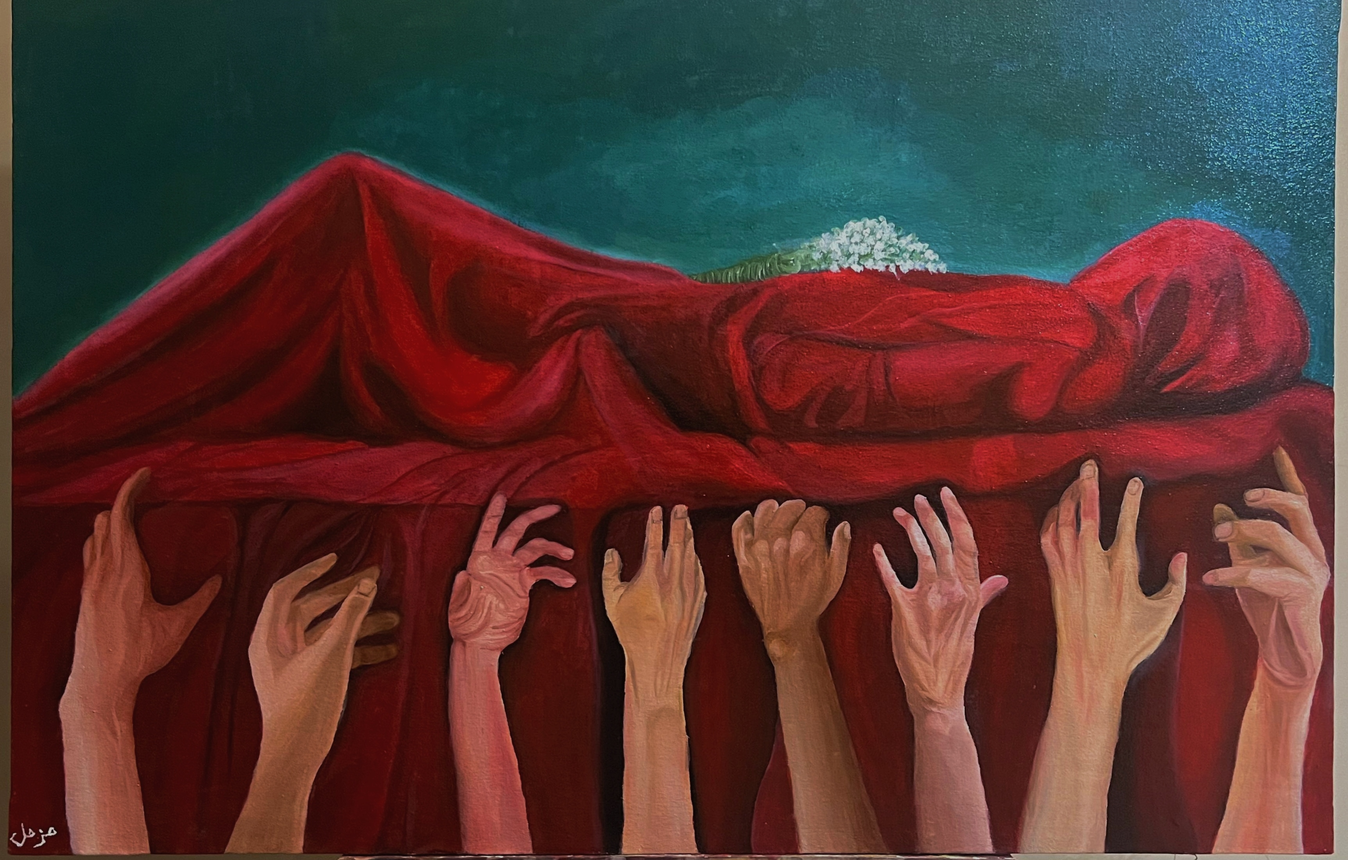
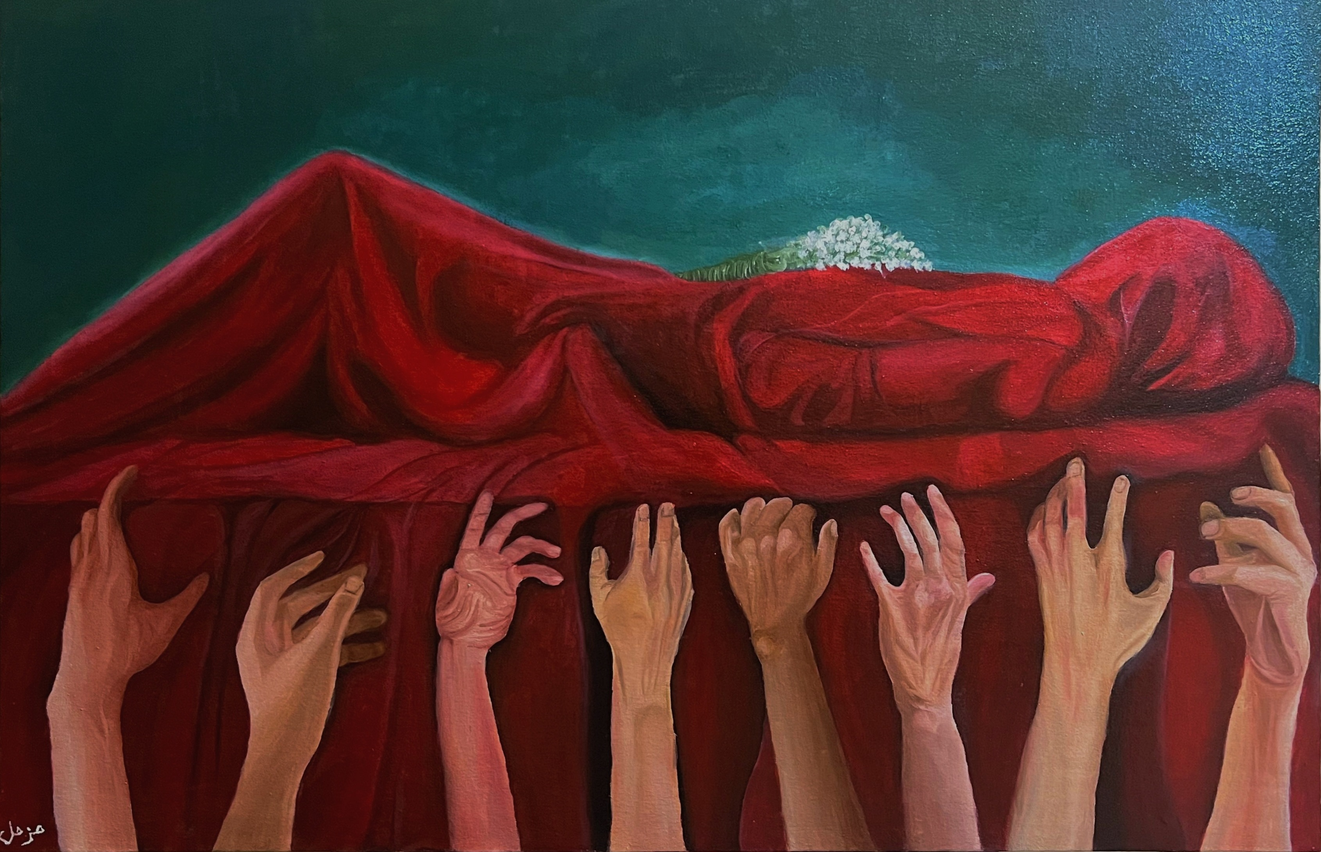
Recrop original paintings, move pair past the arch, darker room
- Recropped and straightened the four original photos so only the
  canvas shows (no wall, background or easel)
- Uncertainty and Everything Else Was Easier To Perform now hang just
  past the arch; the square painting is sized to match the width of
  Uncertainty opposite it
- The plant pair from that bay moved to just before the arch
- Dimmer room with stronger picture-light pools so the paintings stand
  out (ROOM_BRIGHTNESS / PICTURE_LIGHT in mesh.js)

Claude-Session: https://claude.ai/code/session_01Cmf28gMboDVKVY5y8boWYe

diff --git a/src/mesh.js b/src/mesh.js
@@ -13,6 +13,14 @@
 // how many picture lights the shader handles (one per painting)
 const MAX_LIGHTS = 8;
 
+// Overall brightness of the room. Lower = moodier. The paintings are
+// not affected, so a darker room makes them stand out more.
+// 1.0 = the old bright room, 0.6 = dim gallery mood.
+const ROOM_BRIGHTNESS = 0.6;
+
+// How strongly the picture lights wash the wall around each painting.
+const PICTURE_LIGHT = 0.95;
+
 module.exports = (regl, data, useReflexion) => {
 
   // one vec4 pair per light, read live from data.lights so each light
@@ -300,12 +308,15 @@ module.exports = (regl, data, useReflexion) => {
       light = mix(light, 0.42 + sculpt * 0.42 + max(dot(N, V), 0.0) * 0.12, isStatue);
       light += max(dot(N, V), 0.0) * 0.10 * isLeaf;
 
+      // dim the room as a whole; the picture lights stay strong
+      light *= ${ROOM_BRIGHTNESS.toFixed(3)};
+
       vec3 pictureTint = vec3(1.0, 0.93, 0.80);
-      vec3 finalColour = material * (vec3(light) + pictureTint * pic * (0.50 - 0.25 * isFloor));
+      vec3 finalColour = material * (vec3(light) + pictureTint * pic * ${PICTURE_LIGHT.toFixed(3)} * (1.0 - 0.5 * isFloor));
 
       // leaves catch a soft sheen
       vec3 Hs = normalize(lightDirection + V);
-      finalColour += vec3(0.55, 0.65, 0.45) * pow(max(dot(N, Hs), 0.0), 36.0) * 0.20 * isLeaf;
+      finalColour += vec3(0.55, 0.65, 0.45) * pow(max(dot(N, Hs), 0.0), 36.0) * 0.20 * isLeaf * ${ROOM_BRIGHTNESS.toFixed(3)};
 
 
       // ---------------------------------------------------------
@@ -323,7 +334,7 @@ module.exports = (regl, data, useReflexion) => {
         vec3 env = mix(vec3(0.035, 0.033, 0.030), vec3(0.58, 0.54, 0.47), smoothstep(0.05, 0.85, R.y));
         float fres = 0.18 + 0.82 * pow(1.0 - max(dot(N, V), 0.0), 3.0);
         float hot = pow(max(dot(R, normalize(vec3(-0.30, 0.90, -0.30))), 0.0), 70.0);
-        finalColour += env * fres * 0.70 + vec3(1.0, 0.97, 0.92) * hot * 0.80;
+        finalColour += (env * fres * 0.70 + vec3(1.0, 0.97, 0.92) * hot * 0.80) * ${ROOM_BRIGHTNESS.toFixed(3)};
       }
 
 

diff --git a/src/placement.js b/src/placement.js
@@ -299,12 +299,12 @@ const layouts = [
 	/*
 	 * Artwork VI
 	 * Uncertainty
-	 * (entrance hall, before the arch)
+	 * (just past the arch)
 	 */
 
 	{
 		side: 'right',
-		z: 6.5
+		z: 14.6
 	},
 
 
@@ -312,11 +312,16 @@ const layouts = [
 	 * Artwork VII
 	 * Everything Else Was Easier To Perform
 	 * (facing Uncertainty)
+	 *
+	 * Square painting, kept to the width of Uncertainty
+	 * opposite, so the pair matches.
 	 */
 
 	{
 		side: 'left',
-		z: 6.5
+		z: 14.6,
+		maxW: 3.70,
+		maxH: 3.70
 	}
 ];
 
@@ -327,13 +332,25 @@ const layouts = [
  */
 
 function getDimensions(
-	aspect
+	aspect,
+	layout
 ) {
+
+	/*
+	 * A layout can ask for a smaller painting (maxW / maxH),
+	 * otherwise every painting uses the shared limits.
+	 */
+
+	const maxH =
+		(layout && layout.maxH) || MAX_HEIGHT;
+
+	const maxW =
+		(layout && layout.maxW) || MAX_WIDTH;
 
 	const height =
 		Math.min(
-			MAX_HEIGHT,
-			MAX_WIDTH / aspect
+			maxH,
+			maxW / aspect
 		);
 
 	return {
@@ -866,7 +883,8 @@ module.exports =
 			height
 		} =
 			getDimensions(
-				p.aspect
+				p.aspect,
+				layouts[index]
 			);
 
 

diff --git a/src/map.js b/src/map.js
@@ -152,7 +152,7 @@ const PEDESTAL_R = 1.17;
 const PLANTS = [];
 
 [
-    { z: 16.8, dz: -0.7 },   // in front of the first pair of pillars
+    { z: 10.4, dz: -0.7 },   // just before the entrance arch
     { z: 19.2, dz: 0.7 },    // just behind them
     { z: 27.8, dz: -0.7 }    // in front of the second pair
 ].forEach((p, i) => {
